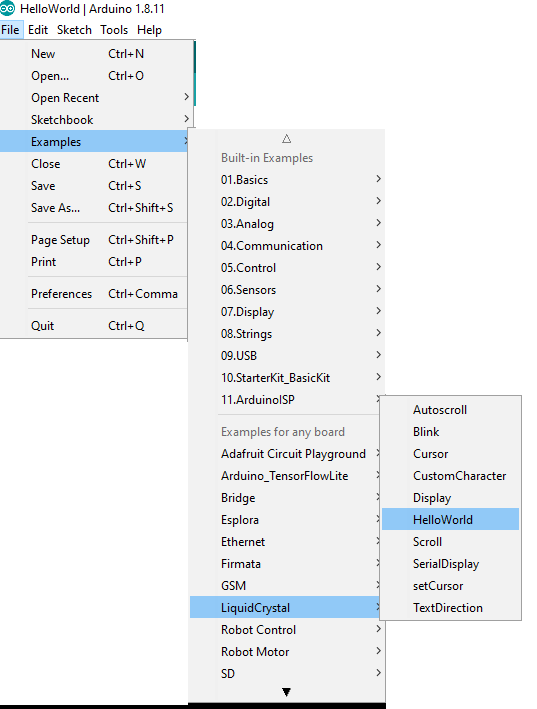
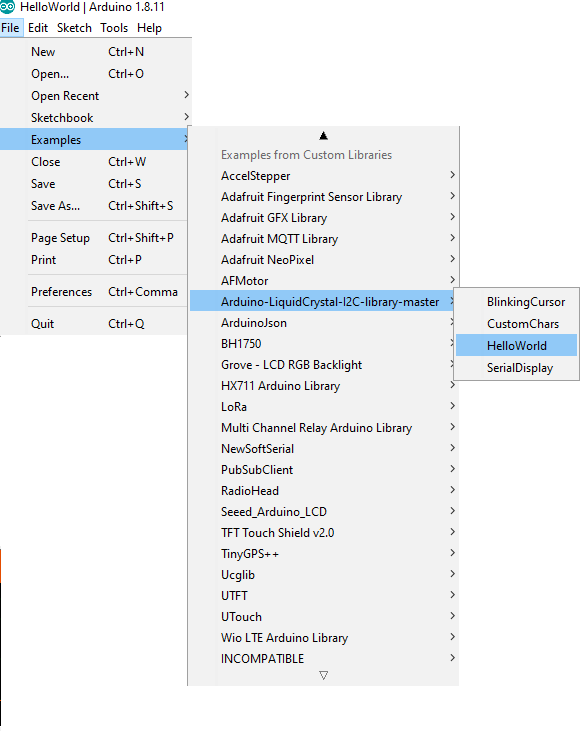
added lcd demo vide0

diff --git a/Digital-Scale/digital-scale.md b/Digital-Scale/digital-scale.md
@@ -187,38 +187,67 @@ We can see the distance measured from the Ultrasonic sensor from the Serial Moni
 
 <hr>
 
-### Tesing HCSR04 UltraSonic Module
+### Tesing LCD Module
+
+Here we are using LCD Module with **12C addons** for I2C Communication , which will only need two wires for communication, in other way we need to use 14 pins. 
+
+Since the I2C is a addon we need  to insert the library on Arduino IDE first. For that first downlaod the [Arduino-LiquidCrystal-I2C-library.zip](sr/lib/Arduino-LiquidCrystal-I2C-library.zip), Then click **Sketch -> Include Library -> Add .ZIP Library**
+
+![inlcude lib](src/images/includeLib.png)
+
+now we successfully added the I2C library. 
+
+
+#### Uplaod and Compaile Code 
 
 <pre>
-<font color="#434f54">&#47;&#47; include the library code:</font>
-<font color="#5e6d03">#include</font> <font color="#434f54">&lt;</font><b><font color="#d35400">LiquidCrystal</font></b><font color="#434f54">.</font><font color="#000000">h</font><font color="#434f54">&gt;</font>
+<font color="#5e6d03">#include</font> <font color="#434f54">&lt;</font><font color="#d35400">Wire</font><font color="#434f54">.</font><font color="#000000">h</font><font color="#434f54">&gt;</font> 
+<font color="#5e6d03">#include</font> <font color="#434f54">&lt;</font><b><font color="#d35400">LiquidCrystal_I2C</font></b><font color="#434f54">.</font><font color="#000000">h</font><font color="#434f54">&gt;</font>
 
-<font color="#434f54">&#47;&#47; initialize the library by associating any needed LCD interface pin</font>
-<font color="#434f54">&#47;&#47; with the arduino pin number it is connected to</font>
-<font color="#00979c">const</font> <font color="#00979c">int</font> <font color="#000000">rs</font> <font color="#434f54">=</font> <font color="#000000">12</font><font color="#434f54">,</font> <font color="#000000">en</font> <font color="#434f54">=</font> <font color="#000000">11</font><font color="#434f54">,</font> <font color="#000000">d4</font> <font color="#434f54">=</font> <font color="#000000">5</font><font color="#434f54">,</font> <font color="#000000">d5</font> <font color="#434f54">=</font> <font color="#000000">4</font><font color="#434f54">,</font> <font color="#000000">d6</font> <font color="#434f54">=</font> <font color="#000000">3</font><font color="#434f54">,</font> <font color="#000000">d7</font> <font color="#434f54">=</font> <font color="#000000">2</font><font color="#000000">;</font>
-<b><font color="#d35400">LiquidCrystal</font></b> <b><font color="#d35400">lcd</font></b><font color="#000000">(</font><font color="#000000">rs</font><font color="#434f54">,</font> <font color="#000000">en</font><font color="#434f54">,</font> <font color="#000000">d4</font><font color="#434f54">,</font> <font color="#000000">d5</font><font color="#434f54">,</font> <font color="#000000">d6</font><font color="#434f54">,</font> <font color="#000000">d7</font><font color="#000000">)</font><font color="#000000">;</font>
+<font color="#434f54">&#47;&#47; Set the LCD address to 0x27 for a 16 chars and 2 line display</font>
+<b><font color="#d35400">LiquidCrystal_I2C</font></b> <b><font color="#d35400">lcd</font></b><font color="#000000">(</font><font color="#000000">0x27</font><font color="#434f54">,</font> <font color="#000000">16</font><font color="#434f54">,</font> <font color="#000000">2</font><font color="#000000">)</font><font color="#000000">;</font>
 
-<font color="#00979c">void</font> <font color="#5e6d03">setup</font><font color="#000000">(</font><font color="#000000">)</font> <font color="#000000">{</font>
- &nbsp;<font color="#434f54">&#47;&#47; set up the LCD&#39;s number of columns and rows:</font>
- &nbsp;<b><font color="#d35400">lcd</font></b><font color="#434f54">.</font><font color="#d35400">begin</font><font color="#000000">(</font><font color="#000000">16</font><font color="#434f54">,</font> <font color="#000000">2</font><font color="#000000">)</font><font color="#000000">;</font>
- &nbsp;<font color="#434f54">&#47;&#47; Print a message to the LCD.</font>
- &nbsp;<b><font color="#d35400">lcd</font></b><font color="#434f54">.</font><font color="#d35400">print</font><font color="#000000">(</font><font color="#005c5f">&#34;hello, world!&#34;</font><font color="#000000">)</font><font color="#000000">;</font>
+<font color="#00979c">void</font> <font color="#5e6d03">setup</font><font color="#000000">(</font><font color="#000000">)</font>
+<font color="#000000">{</font>
+&#09;<font color="#434f54">&#47;&#47; initialize the LCD</font>
+&#09;<b><font color="#d35400">lcd</font></b><font color="#434f54">.</font><font color="#d35400">begin</font><font color="#000000">(</font><font color="#000000">)</font><font color="#000000">;</font>
+
+&#09;<font color="#434f54">&#47;&#47; Turn on the blacklight and print a message.</font>
+&#09;<b><font color="#d35400">lcd</font></b><font color="#434f54">.</font><font color="#d35400">backlight</font><font color="#000000">(</font><font color="#000000">)</font><font color="#000000">;</font>
+&#09;<b><font color="#d35400">lcd</font></b><font color="#434f54">.</font><font color="#d35400">print</font><font color="#000000">(</font><font color="#005c5f">&#34;Hello, world!&#34;</font><font color="#000000">)</font><font color="#000000">;</font>
 <font color="#000000">}</font>
 
-<font color="#00979c">void</font> <font color="#5e6d03">loop</font><font color="#000000">(</font><font color="#000000">)</font> <font color="#000000">{</font>
- &nbsp;<font color="#434f54">&#47;&#47; set the cursor to column 0, line 1</font>
- &nbsp;<font color="#434f54">&#47;&#47; (note: line 1 is the second row, since counting begins with 0):</font>
- &nbsp;<b><font color="#d35400">lcd</font></b><font color="#434f54">.</font><font color="#d35400">setCursor</font><font color="#000000">(</font><font color="#000000">0</font><font color="#434f54">,</font> <font color="#000000">1</font><font color="#000000">)</font><font color="#000000">;</font>
- &nbsp;<font color="#434f54">&#47;&#47; print the number of seconds since reset:</font>
+<font color="#00979c">void</font> <font color="#5e6d03">loop</font><font color="#000000">(</font><font color="#000000">)</font>
+<font color="#000000">{</font>
+&#09;<b><font color="#d35400">lcd</font></b><font color="#434f54">.</font><font color="#d35400">setCursor</font><font color="#000000">(</font><font color="#000000">0</font><font color="#434f54">,</font> <font color="#000000">1</font><font color="#000000">)</font><font color="#000000">;</font>
  &nbsp;<b><font color="#d35400">lcd</font></b><font color="#434f54">.</font><font color="#d35400">print</font><font color="#000000">(</font><font color="#d35400">millis</font><font color="#000000">(</font><font color="#000000">)</font> <font color="#434f54">&#47;</font> <font color="#000000">1000</font><font color="#000000">)</font><font color="#000000">;</font>
+ &nbsp;
 <font color="#000000">}</font>
 
 </pre>
 
-You can find the Sketch from **File -> Examples -> LiquidCrystal -> Hello World**
+#### Connect LCD Module with Arduino
+
+ Demonstrates the use a 16x2 LCD display.  The I2C LiquidCrystal Module comes with 4-pins and connect them with follwing model.
+
+ * LCD SCL - Arduino SCL
+ * LCD SDA - Arduino SDA
+ * LCD GND - Arduino GND
+ * LCD VCC - Arduino VCC
+
+ This sketch prints "Hello World!" to the LCD
+ and shows the time.
+
+ ![lcd connection](src/images/LCD_test.png)
+
+<hr>
+
+![lcd demo](src/images/lcd_demo.gif)
+
+<hr>
 
 
-![LCD Example SKetch](src/images/examplesketch.png).
+
 
 
 
